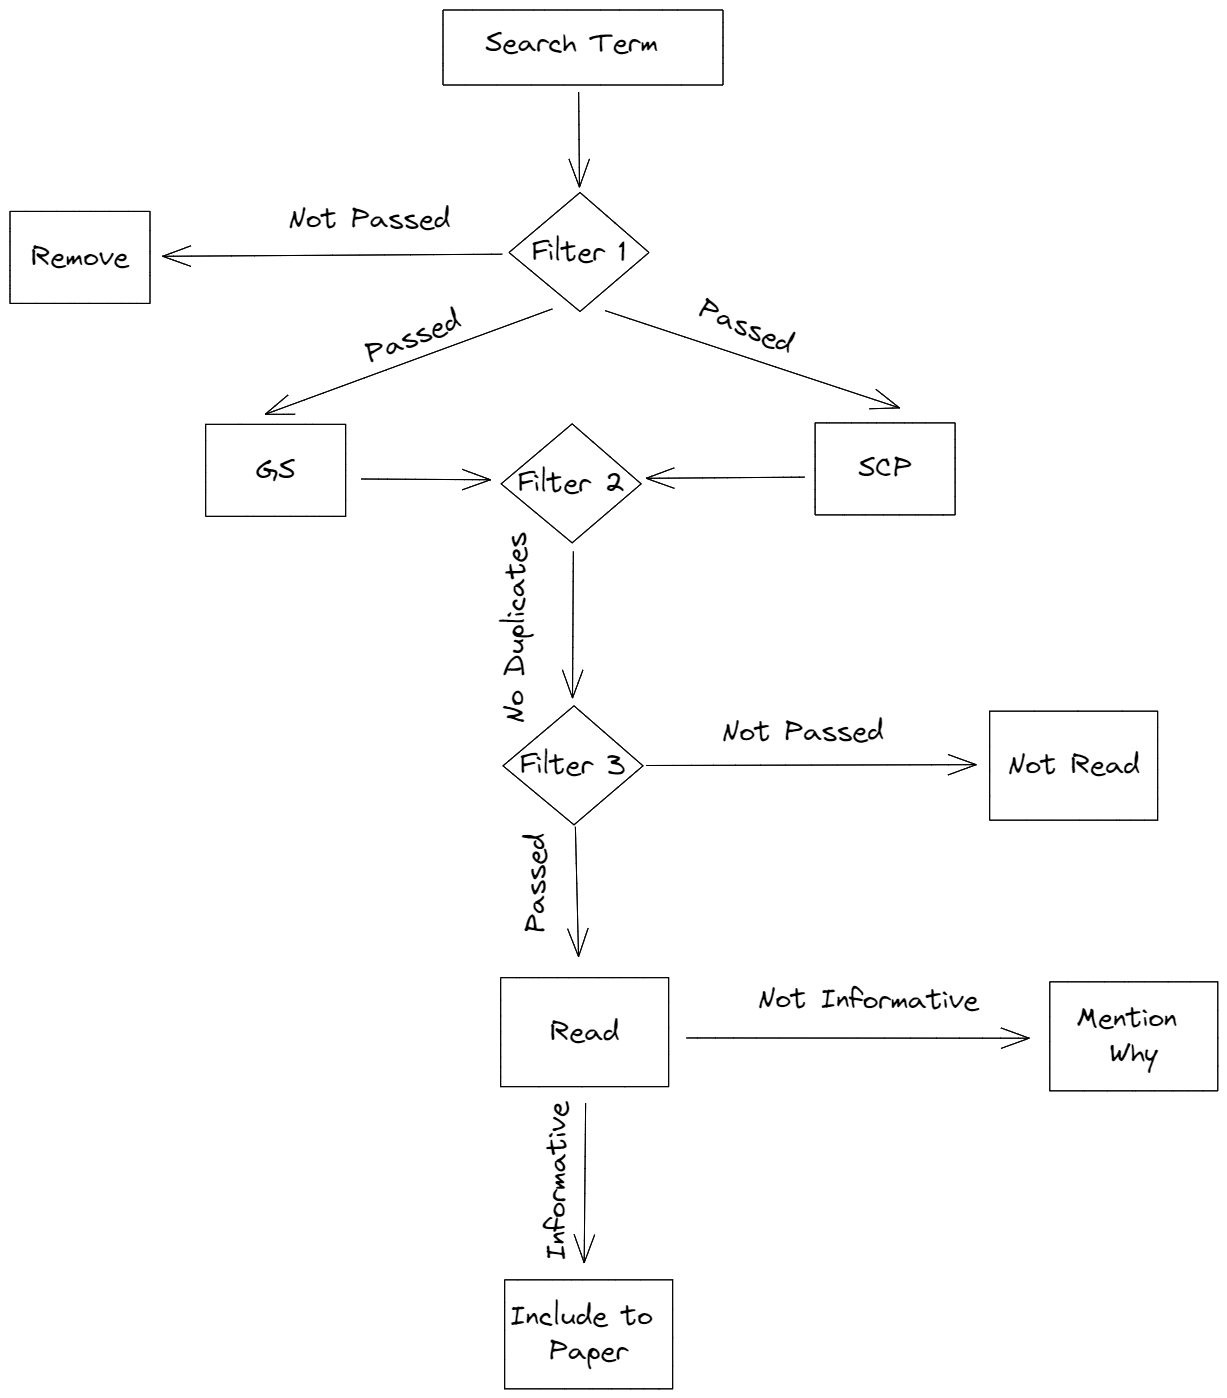
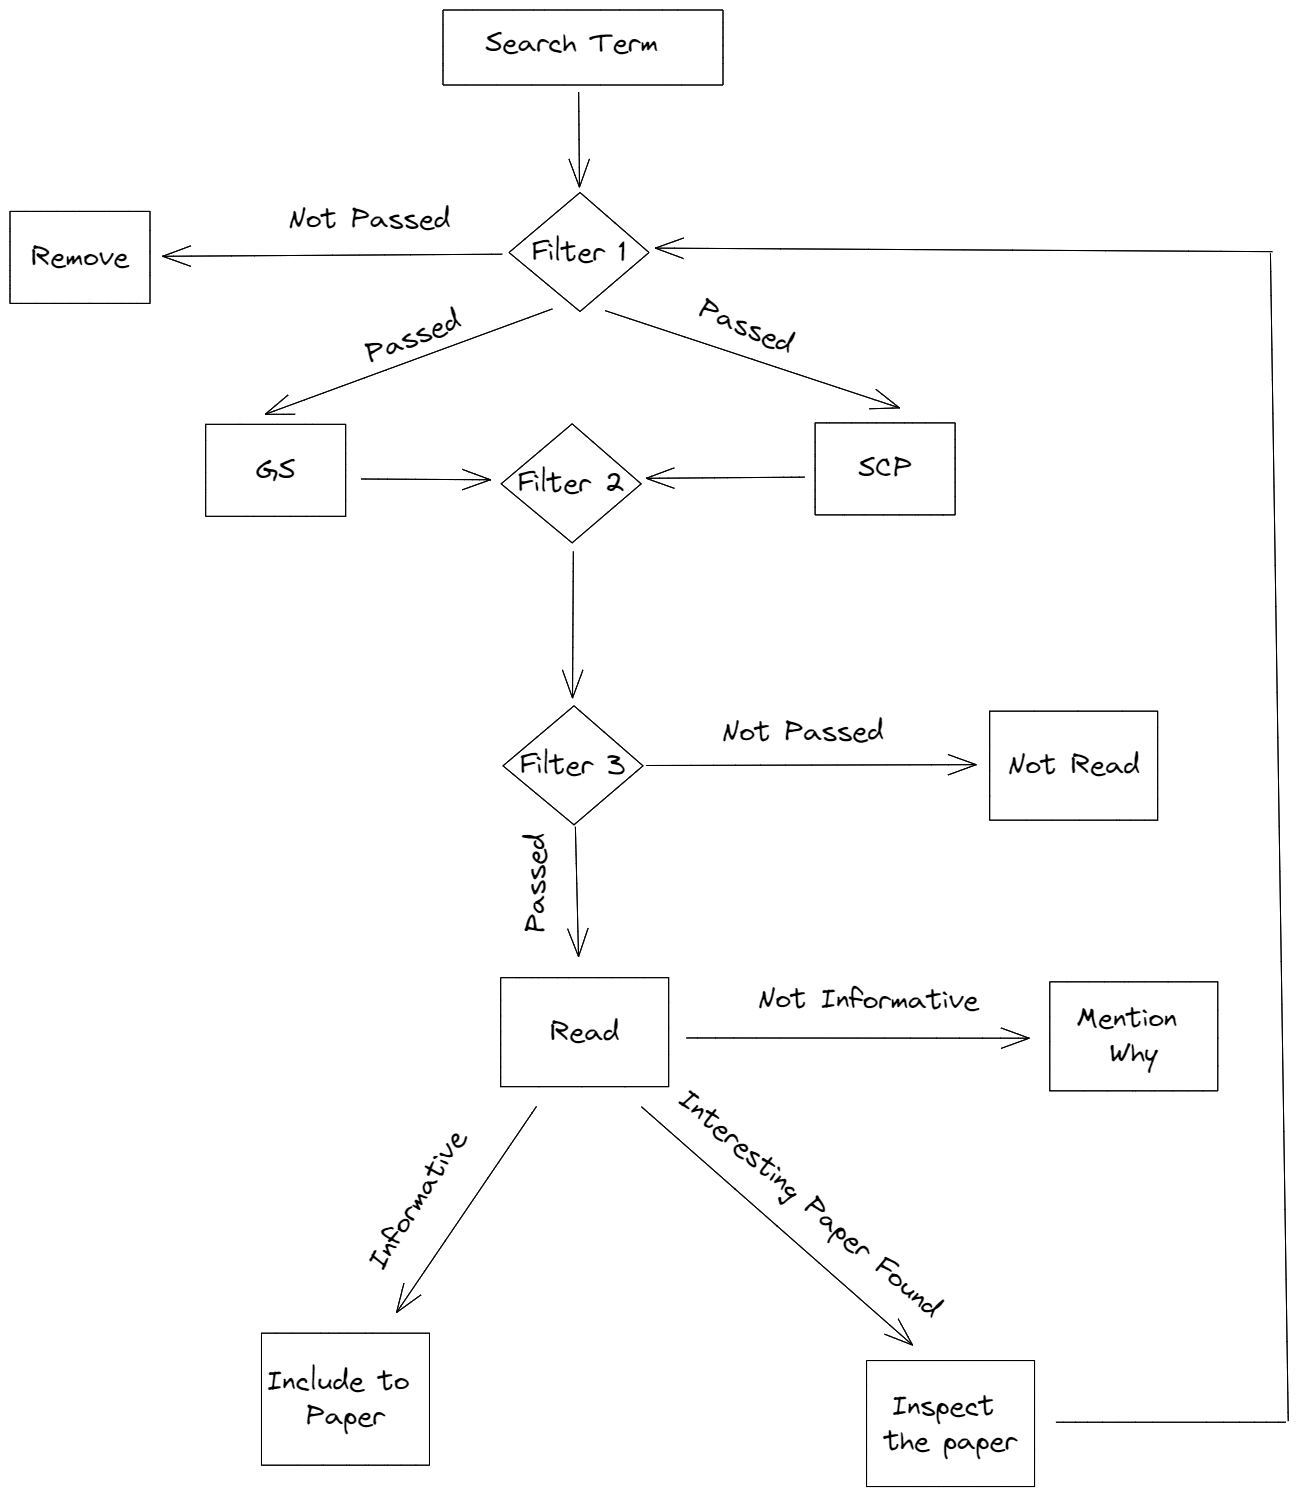
Last one before meeting

diff --git a/manuscripts/paper-1/main.tex b/manuscripts/paper-1/main.tex
@@ -51,14 +51,14 @@
     The Digital twin approach, on the other hand, is a pragmatic solution, which is the execution of the CPS idea.~\cite{TAOCHAPTER1}
     
     The first occurrence of the "Digital Twin" term was introduced by Dr.~Michael Grieves in 2003 at the University of Michigan while giving the Product Lifecycle Management (PLM) course.~\cite{DTGRIEVES}
-    His introduction to the term was rather raw but still introduced a pragmatic solution to gather more data from the physical entities, to achieve the "Lean" idea.
+    His introduction to the term was rather raw but still introduced a pragmatic solution to gather more data from the physical entities, to achieve the "Lean" state.
     
     His approach has three dimensions, along with a physical entity, a virtual entity and a connection between these entities which constructed the main frame for today's evaluating digital twins.~\cite{DTGRIEVES}
 
     A physical entity exists only in the physical space with real functionalities and performance. It is responsible to accomplish certain tasks within the physical space, to give certain outputs.
     Different levels of abstraction can be usable for a physical entity such as an electric motor in the 1/10 of an RC Car, bearings in a certain machine, solar panels above some construction, human or an entire world can be counted as an example of a physical entity.
 
-    A virtual entity exists only in the virtual space, which should imitate the physical entity with high-fidelity models. If we consider the virtual entity as a function;
+    On the other hand, a virtual entity exists only in the virtual space, which should imitate the physical entity with high-fidelity models. If we consider the virtual entity as a function;
 
     \begin{equation}\label{Formulated Entity Equation}
         VE = (G_v, P_v, B_v, R_v)
@@ -67,10 +67,10 @@
     
     $G_v$ represents the geometry model, $P_v$ represents the physical model, $B_v$ represents  the behavior model, and $R_v$ represents the rule model~\cite{DTGRIEVES}.
     
-    The last dimension is the connection between physical space and virtual space. Physical space created real-time data, and through the connection, these data will be received by the virtual space 
-    and updates the states of the models. Virtual space sends the needed information to the physical space. 
+    The last dimension of a 3D-DT is the connection between physical space and virtual space. Physical space creates real-time data, and through the connection, these data will be received by the virtual space 
+    and updates the states of the models. Virtual space sends the needed information to the physical space.  
 
-    There is also another, an up-to-date approach that adds two more dimensions(Data and Services), to the traditional digital twin model which is described above.~\cite{DTGRIEVES}
+    There is also another, an up-to-date approach that adds two more dimensions (Data and Services), to the traditional digital twin model which is described above.~\cite{DTGRIEVES}
 
     \begin{equation}
         M_{dt} = (PE,VE,Ss,DD,CN)
@@ -83,19 +83,24 @@
         \item[DD] Represents DT Data
         \item[CN] Represents DT Connections
     \end{description}
-    If we consider the dimensions we above discussed as vertical dimensions, if we divide our digital twin horizontally into three different layers, the explanation of the digital twin systems becomes much clearer.
+    If we consider the dimensions, we discussed above as vertical dimensions within a single layer, the digital twins also can have three different horizontal layers\cite{TAOCHAPTER1}. 
+    The need for such layers is that the explanation of the digital twin systems becomes much clearer. These can be identified as:
     \begin{itemize}
-        \item Unit DT which only has one PE in the physical space
-        \item System DT  is an assembly of PE's in the physical space
-        \item System of Systems DT  is an assembly of systems in the physical space
+        \item Unit DT has one PE in the physical space
+        \item System DT is an assembly of PE's in the physical space
+        \item System of Systems DT is an assembly of systems in the physical space
     \end{itemize} 
 
-    Of course, there are other explanations, approaches, and architectures to digital twins, but like every other digital transformation approach, the main goal is to get into the lean state,
-    which is an optimal approach to our problem. 
+    There is also the possibility to add more horizontal layers and define them differently such as a Part layer, Component layer, Machine layer, Production line layer, Shop-floor Layer.\cite{MultiScaleModeling4Layers}
     
-    Also should be noted that the digital twin approach was introduced within the PLM course. PLM is nothing but an improvement to the lean manufacturing philosophy, which aims to eliminate waste(Time, energy, Material) not only during the
+    
+    Of course, there are other explanations, approaches, and architectures to digital twins, but like every other digital transformation approach, the main goal is to get into the lean state,
+    which regards the optimal approach to any problem. 
+    
+    Also should be noted that the digital twin approach was introduced within the PLM course. PLM is nothing but an improvement to the lean manufacturing philosophy,
+    which aims to eliminate waste (Time, Energy and Material waste) not only during the
     manufacturing process but also during the lifecycle of the product.~\cite{grieves2006PLM} 
-    It's an approach to achieve the lean state, which overlaps with the idea of digital twins, which both aim to gather more information about the product, starting from the design phase to the disposal of the product.
+    It's an approach to achieve the lean state, which overlaps with the idea of digital twins. Both aim to gather more information about the product, starting from the design phase to the disposal of the product.
     
 
     Achieving a full-scale cyber-physical system is not only a goal for the digital twin but also an essential challenge. The following are some examples of the challenges which is occurring during the development of a digital twin:
@@ -103,11 +108,12 @@
         \item High fidelity modeling and simulation
         \item Real-Time communication between the components of digital twin 
         \item Flexible data architecture
-        \item Developing standards and protocols for the use of digital twins so that they can be used consistently across different industries and applications.
+        \item Developing standards and protocols for the use of digital twins so that they can be used consistently across different 
+        industries and applications
         \item Cost and Cost Management
         \item Cyber Security
         \item Quality Assurance of the digital twin
-        \item Information inefficiency regarding the theme Digital Twins
+        \item Information inefficiency
         \item \dots{}
     \end{itemize}
     
@@ -134,7 +140,7 @@
     Literature analysis was executed, to analyze current DT literature within the concept of digital twin quality. The analysis especially focused on 
     how the digital twin quality is mentioned and assessed within the academic dissertations.
 
-    Methodology (see Section~\ref{section:liteature_methodology}), result (see Section~\ref{section:liteature_result}), and summary (See Section~\ref{section:liteature_summary})...
+    Methodology (see Section~\ref{section:liteature_methodology}), Result (see Section~\ref{section:liteature_result}), and Summary (See Section~\ref{section:liteature_summary})...
     \subsection{Methodology}~\label{section:liteature_methodology}
     Google Scholar (GS), Scopus (SCP) and Research Rabbit (RR) tools are used to fulfill our requirements for the literature review. 
     Since there is a great number of digital twin publications in academics, 
@@ -143,11 +149,10 @@
     First filtering will be done with the following criteria:
     \begin{itemize}
         \item Dissertations should be written in English and published in a journal/conference.
-        \item Paper is not older than 2018
+        \item Dissertations should not be older than 2018
         \item Search term should be exactly searched.
     \end{itemize}
 
-   
     Filtering query calls for the GS and SCP are the following:
     \begin{itemize}
         \item Google Scholar = "search term"
@@ -157,21 +162,21 @@
     Also want to note that, in the GS, there isn't a function that filters the dates, instead the user should click the Since 2018 option to filter the dates.
 
 
-    Second filtering will be done to eliminate the duplications, which can occur when GS and SCP give the same result.
+    Second filtering will be done to eliminate the duplications and even though authors already filtered the search for the English language,
+    still some results without the English language will appear. Again, language filtering should be done to clean the results.
+    
     \begin{itemize}
         \item Remove Duplications
         \item Remove the dissertations which are not English manually
     \end{itemize}  
     
-    Even though we already filtered the language, still some dissertations results will appear because of the auto translation which they put on the website.
-    So second time should be filtered manually.
-
     After the second filtration, the third filtering which is a manual investigation should occur with the following filtering criteria:
     \begin{itemize}
-        \item Proper literature review should be present in the selected paper
+        \item Proper literature review should be present in the selected dissertation
         \item Abstract and conclusion should be relevant to the search term
     \end{itemize}
     
+    If an interesting dissertation(s) would be found during the reading, it will be checked again with the first filter.
     \begin{figure}
         \centering
         \includegraphics[width =0.45\textwidth]{LRMethod.png}
@@ -186,24 +191,27 @@
     \end{figure}
 
     
-
-    %TODO: ADD THE METHOD HERE
-
-    
     \subsection{Result}~\label{section:liteature_result}
-    The following results were achieved by selecting several  search terms, which is 
-    \subsubsection*{Digital Twin Quality}\label{subsection:Digital Twin Quality}
+    The following results were achieved by selecting several search terms.
+    \subsubsection*{Digital Twin Quality}\label{subsection:DigitalTwinQuality}
     
-    First filtering is done for the search term "digital twin quality", meanwhile GS gave 41 different results, and SCP gave only 3 results.
+    First filtering was done for the search term "digital twin quality", meanwhile GS gave 41 different results, and SCP gave only 3 results.
     After the second filtering process, 3 duplications and 31 different results were found. 10 dissertations were not in English.
     After the third filtering process, 9 dissertations passed and the rest is rejected.
 
-    \subsubsection*{Digital Twin Testing}\label{subsection:Digital Twin Quality}
+    
+
+
+    \subsubsection*{Digital Twin Model Verification}\label{subsection:DigitalTwinVerification}
+
+    \subsubsection*{Digital Twin Model Validation}\label{subsection:DigitalTwinValidation}
     %What is the existing literature?
 
     \subsection{Summary}~\label{section:liteature_summary}
 
     What do we learn from existing literature?
+
+    He Zhang et al.introduced a consistency evaluation method for digital twin models, which can be used to assess the quality of the digital twin~\cite{ConsistencyEvolutionMethodForDigitalTwins}.
     (Existing literature does at most partially solve our problem!)
 
     \section{Case study (FELICE)}~\label{section:case}
